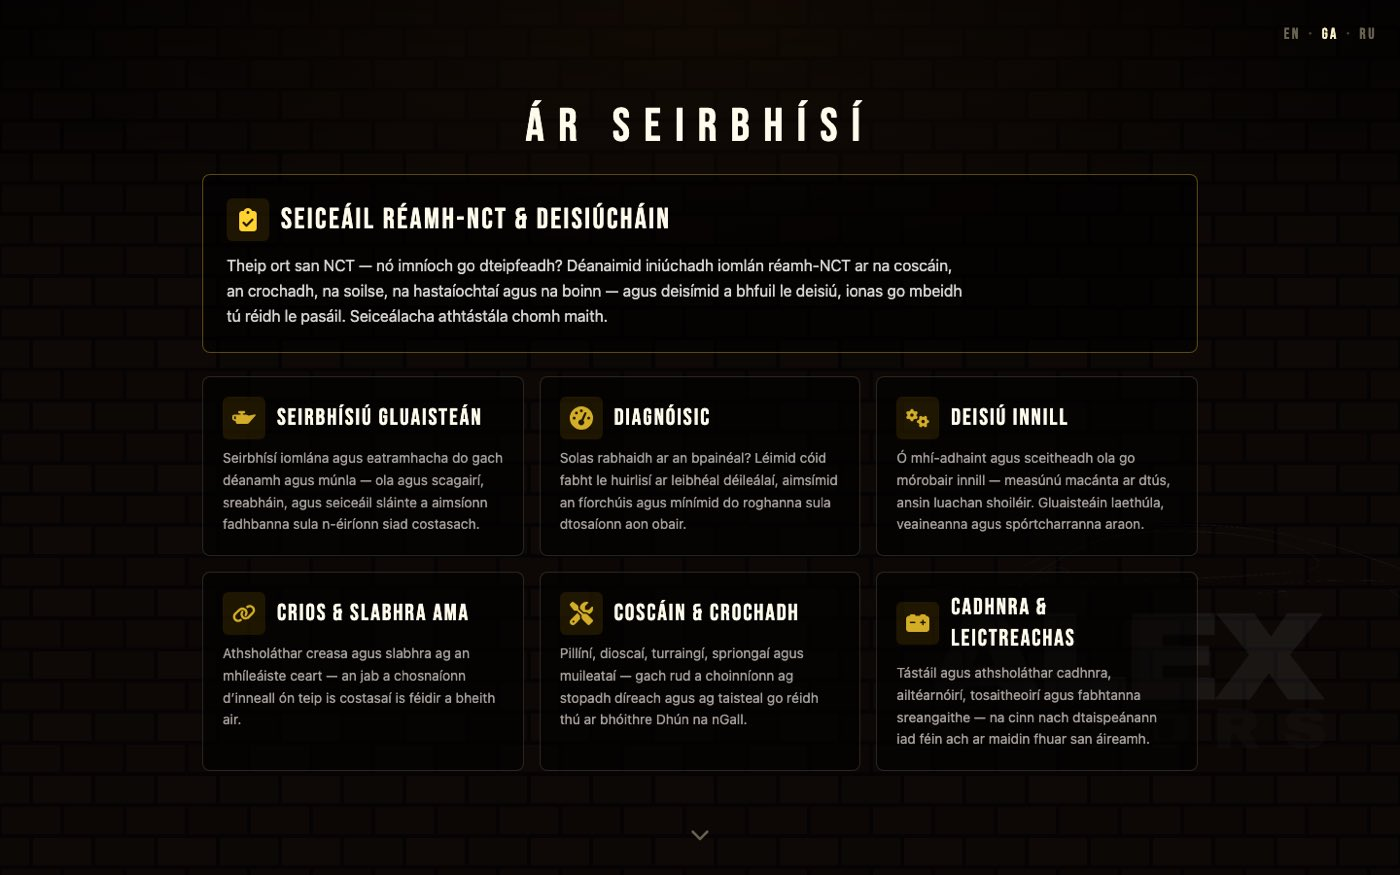
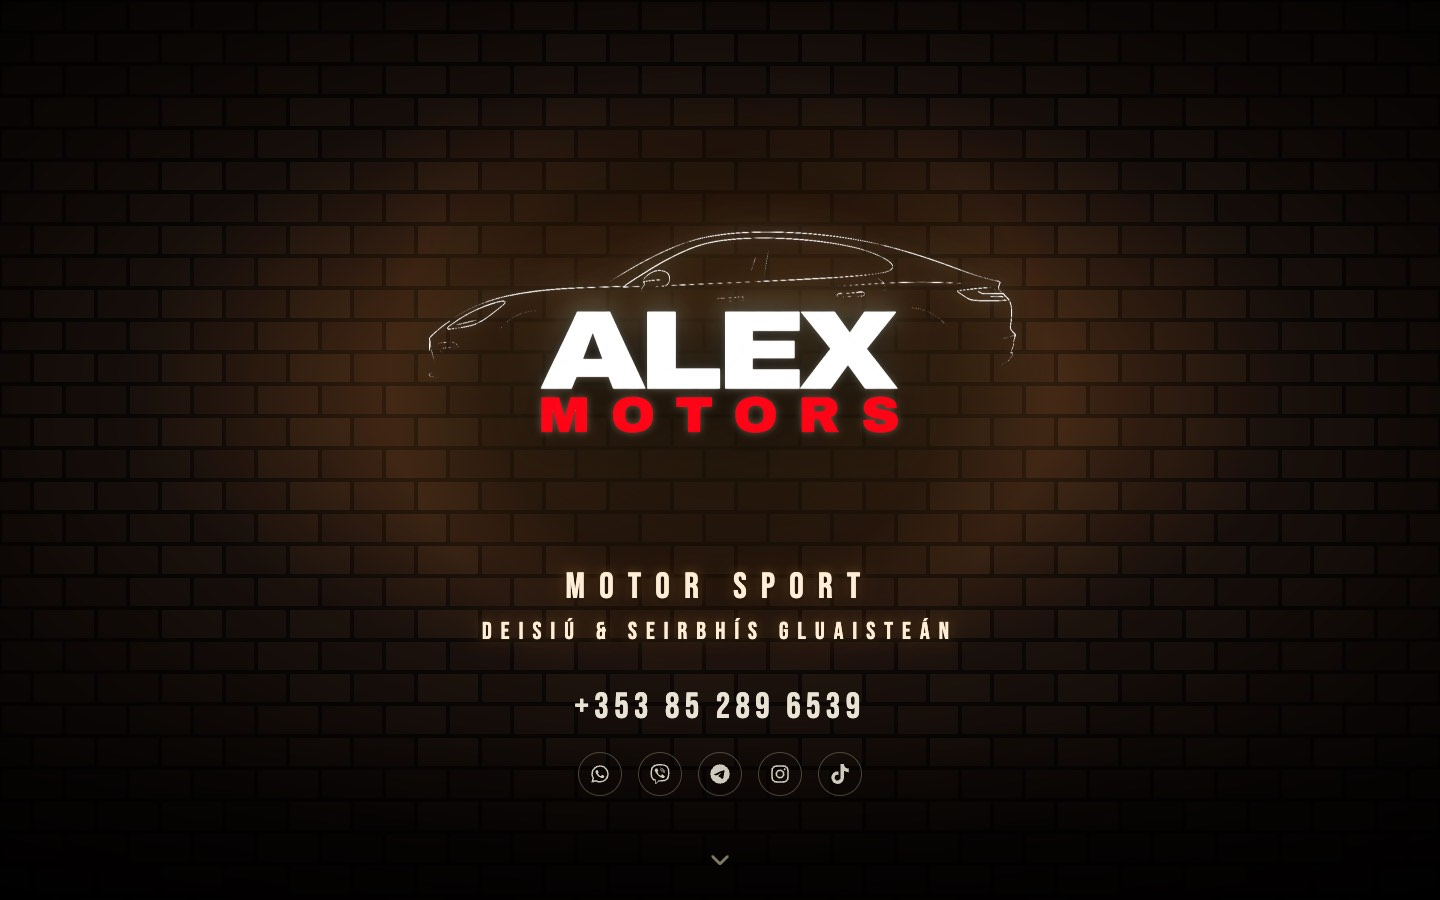
fix: mark map attribution translate=no, unify lang guard, reshoot GA at 1440x900
- LocationMap: setAttribute('translate','no') on the attribution control so
  Chrome full-page autotranslate leaves provider-mandated OSM/CARTO text intact
  when <html lang> switches to a non-English locale
- I18nProvider: navigator branch now splits on '-' and routes through the single
  isLang guard (drops slice(0,2) false-positive on e.g. 'gaa'), no duplicated
  supported-language set
- Reshoot i18n-services-ga.jpg at the locked 1440x900 desktop convention

diff --git a/src/LocationMap.tsx b/src/LocationMap.tsx
@@ -58,6 +58,11 @@ export default function LocationMap({ lat, lng, markerTitle, ariaLabel }: Props)
 
     L.marker([lat, lng], { icon: pinIcon, title: markerTitle, keyboard: false }).addTo(map)
 
+    /* OSM/CARTO attribution is provider-mandated, not our copy — mark it
+       translate="no" so Chrome's full-page autotranslate leaves the legally
+       required text intact once <html lang> switches to a non-English locale. */
+    map.attributionControl.getContainer()?.setAttribute('translate', 'no')
+
     return () => {
       map.remove()
     }

diff --git a/src/i18n/I18nProvider.tsx b/src/i18n/I18nProvider.tsx
@@ -19,9 +19,8 @@ function detectInitialLang(): Lang {
   } catch {
     // localStorage can throw in private mode — fall through to detection.
   }
-  const nav = navigator.language?.slice(0, 2).toLowerCase()
-  if (nav === 'ga' || nav === 'ru') return nav
-  return 'en'
+  const nav = navigator.language?.split('-')[0]?.toLowerCase() ?? null
+  return isLang(nav) ? nav : 'en'
 }
 
 export function I18nProvider({ children }: { children: ReactNode }) {